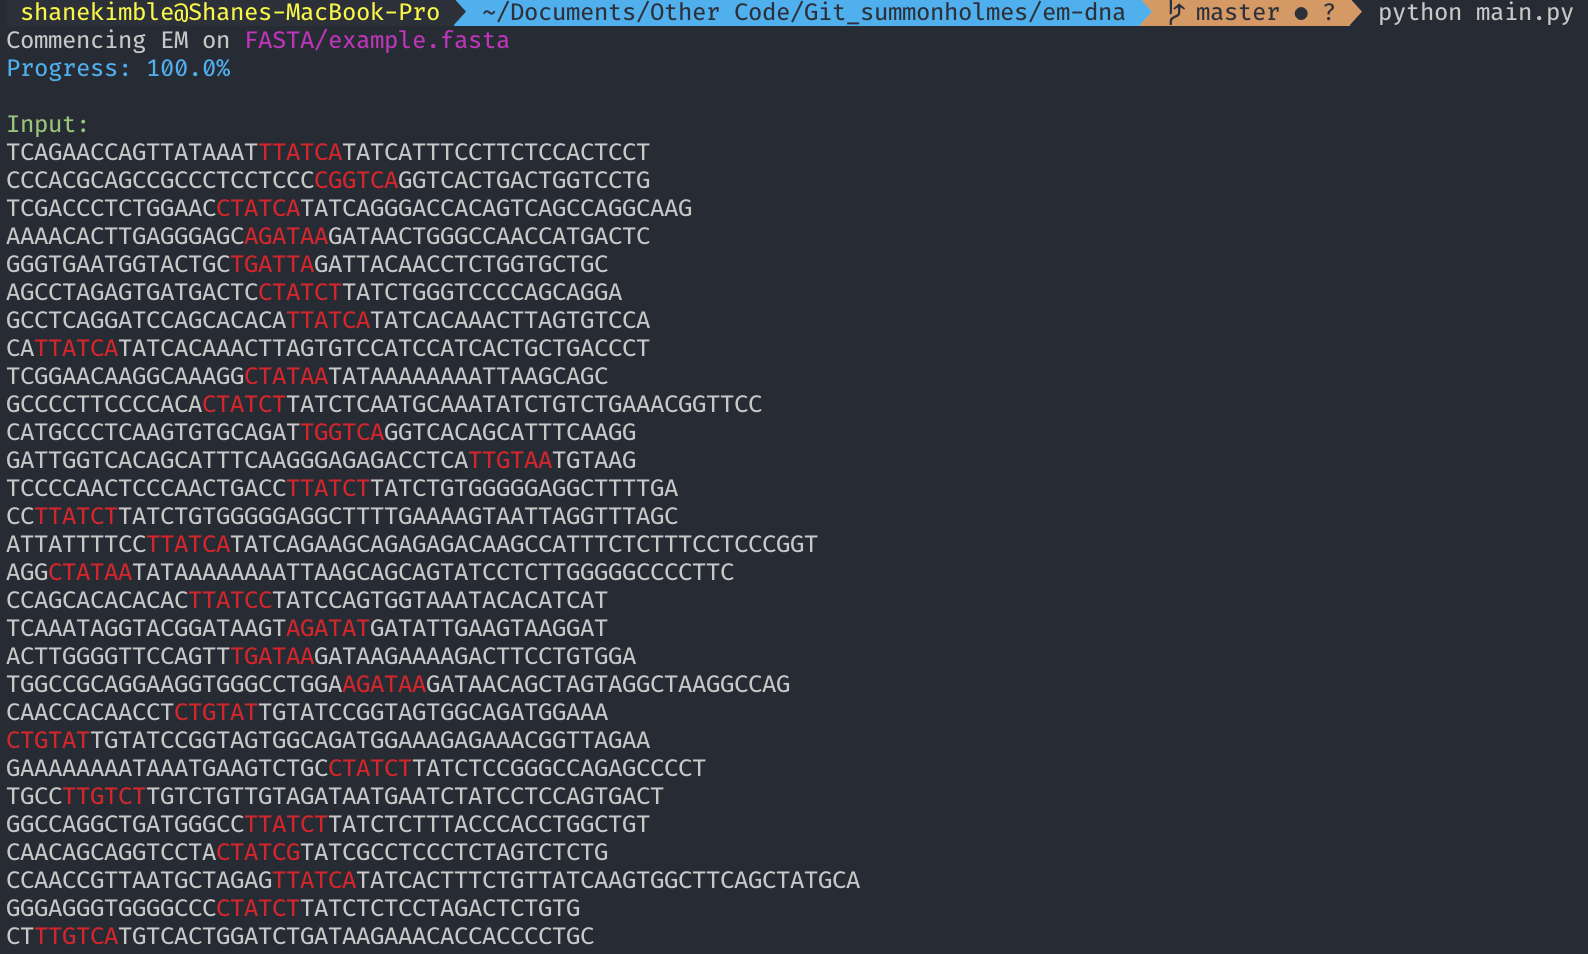
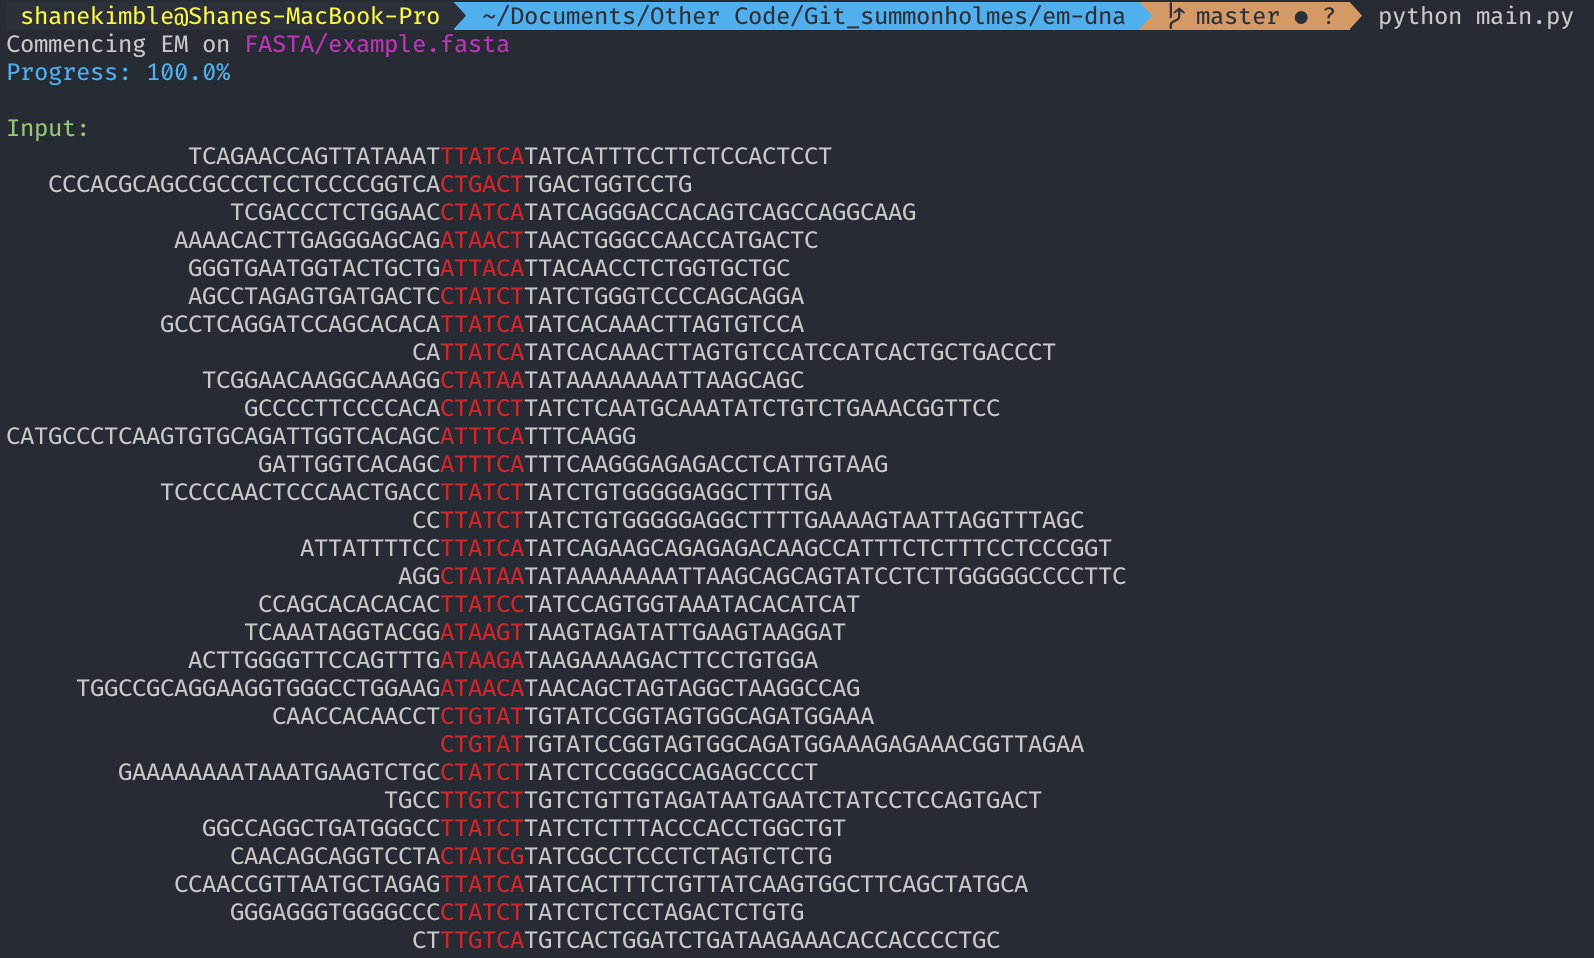
Improve visualization

Changed region(s): [[0.0, 0.1216, 0.7097, 1.0], [0.0, 0.0, 0.9874, 0.0912]]

diff --git a/class_EM_Core.py b/class_EM_Core.py
@@ -50,7 +50,7 @@ class EM_Core:
             colored(
                 "Progress: {:2.1%}".format((i + 1) / self.total_rand_aligns),
                 "blue"),
-            end="\r")
+            end='\r')
 
     def process_counter_obj(self):
         # Step 1 - inherit Core
@@ -77,10 +77,14 @@ class EM_Core:
     def color_the_sequences(self):
         # Map the colors
         return map(
-            lambda x, y: x[:y] +
-            colored(x[y:y + self.motif_width], "red") +
-            x[y + 1:],
-            self.fasta_file_seqs, self.final_dataframe["Final Positions"])
+            lambda seq, pos, align:
+                ' ' * align + seq[:pos] +
+                colored(seq[pos:pos + self.motif_width], "red") +
+                seq[pos + 1:],
+                self.fasta_file_seqs,
+                self.final_dataframe["Final Positions"],
+                self.final_dataframe["Final Positions"].max(
+                ) - self.final_dataframe["Final Positions"])
 
     def gen_dataframe(self):
         filter_keys = ("Final Scores", "Final Positions", "Final Motifs")
@@ -96,7 +100,7 @@ class EM_Core:
     def display_results(self):
         # Print final results
         print(colored("\n\nInput:", "green"))
-        print(*self.color_the_sequences(), sep="\n")
+        print(*self.color_the_sequences(), sep='\n')
         print(colored("\nResults:", "green"))
         print(self.final_dataframe)
-        print(*self.final_results.items(), sep="\n")
+        print(*self.final_results.items(), sep='\n')

diff --git a/class_EM_Input.py b/class_EM_Input.py
@@ -73,8 +73,8 @@ class EM_Input:
 
     def process_fasta(self):
         # Read, split, and skip every other line
-        self.fasta_file_seqs = self.fasta_file_seqs.split(">")
+        self.fasta_file_seqs = self.fasta_file_seqs.split('>')
         self.fasta_file_seqs = [
-            sub(r"[^ACTG]+", "", string) for string in self.fasta_file_seqs
+            sub(r"[^ACTG]+", '', string) for string in self.fasta_file_seqs
         ]
         del self.fasta_file_seqs[0]

diff --git a/README.md b/README.md
@@ -10,17 +10,17 @@ The Expectation (E) step composes the majority of source code.  Total positional
 An implementation in Julia is also available.  The Julia implementation was constructed to test the claims regarding Julia's superior performance.  Despite being as identical to the Python code blueprint as possible (minus the object-oriented structure), the Julia code runs far slower.  Perhaps I can improve it when I learn more about Julia's best practices, or Julia isn't what it claims to be.
 
 A brief description of the six classes:
-1. EM_Input: Loads all user data including the number of random alignments, the number of iterations, and the FASTA file.  This class has an interactive mode, but is commented out in favor of default parameters.  The defaults include a motif width of 6, 50 total random alignments, and 50 iterations.
+1. EM_Input: Loads all user data including the number of random alignments, the number of iterations, and the FASTA file.  This class has an interactive mode, but this is commented out in favor of default parameters.  The defaults include a motif width of 6, 50 total random alignments, and 50 iterations.
 
 2. EM_Prep: Consolidates all consistent and reusable information.  This includes all bases as a string, all base counts, all contiguous motifs, and cumulative sums.
 
-2. EM_Core: The first iteration or 'for' loop over the number of random alignments.  Previously, the entire program could be thought of as one gigantic, quintuple, nested 'for' loop.  However, this approach has been reduced to a double 'for' loop via numpy vectorization and indexing.  This is the 'nucleas' of the program, which encompasses the entire EM process and iterates for the specified number of total random alignments.
+2. EM_Core: The first iteration or 'for' loop over the number of random alignments.  Previously, the entire program could be thought of as one gigantic, quintuple, nested 'for' loop.  However, this approach has been reduced to a double 'for' loop via NumPy vectorization and indexing.  This is the 'nucleus' of the program, which encompasses the entire EM process and iterates for the specified number of total random alignments.
 
 3. EM_Count: Performs all counting operations regarding bases, motifs, and normalization.  The only area where looping occurs is over the motif width when storing positional counts.  The rest of this class aims to be as Pythonic and vectorized as possible.
 
-4. EM_Matrix: Consists of the E step, and generates the log odds matrix for the M step.  Numpy matrices are preferred here for their vector capabilities.  Child of EM_Count.
+4. EM_Matrix: Consists of the E step and generates the log odds matrix for the M step.  NumPy matrices are preferred here for their vector capabilities.  Child of EM_Count.
 
-5. EM_Run: Consists of remaining inner two 'for' loops from mentioned above in EM_Core, and the M step.  Scores are calculated using a numpy character array for each motif and the log odds matrix.  The entire process repeats to convergence, and the final results are printed in 'main.py'.  Note that the function 'update_log_odds' is the entire Expectation Step and recycles all functions from EM_Count & EM_Matrix.  Child of EM_Matrix.
+5. EM_Run: Consists of remaining inner two 'for' loops from mentioned above in EM_Core, and the M step.  Scores are calculated using a NumPy character array for each motif and the log odds matrix.  The entire process repeats to convergence, and the final results are printed in 'main.py'.  Note that the function 'update_log_odds' is the entire Expectation Step and recycles all functions from EM_Count & EM_Matrix.  Child of EM_Matrix.
 
 ## Getting Started
 This program requires few dependences and should be trivial to set up.  However, an in-depth understanding of the EM algorithm requires some knowledge of bioinformatics, data science, and machine learning.
@@ -45,40 +45,40 @@ C:\path\to\main.py C:\path\to\python3.exe main.py
 ```
 Results:
     Final Scores  Final Positions Final Motifs
-0     345.645897               18       TTATCA
-1      23.489909               22       CGGTCA
-2     204.849579               15       CTATCA
-3      11.132529               17       AGATAA
-4      13.379087               16       TGATTA
-5     177.230609               18       CTATCT
-6     345.645897               20       TTATCA
-7     345.645897                2       TTATCA
-8     105.752671               17       CTATAA
-9     177.230609               14       CTATCT
-10     39.634891               21       TGGTCA
-11     66.895433               33       TTGTAA
-12    299.043977               20       TTATCT
-13    299.043977                2       TTATCT
-14    345.645897               10       TTATCA
-15    105.752671                3       CTATAA
-16     39.384580               13       TTATCC
-17      9.631579               20       AGATAT
-18     54.578946               16       TGATAA
-19     11.132529               24       AGATAA
-20     34.300764               12       CTGTAT
-21     34.300764                0       CTGTAT
-22    177.230609               23       CTATCT
-23    112.109872                4       TTGTCT
-24    299.043977               17       TTATCT
-25     25.975433               15       CTATCG
-26    345.645897               19       TTATCA
-27    177.230609               15       CTATCT
-28    129.580664                2       TTGTCA
-('Max Final Score', 345.6458967848998)
-('Max Sum Scores', 4356.165750544812)
-('Max Final Sequence', 0)
-('Max Final Position', 18)
-('Max Final Motif', 'TTATCA')
+0     285.682305               18       TTATCA
+1      17.627782               28       CTGACT
+2     227.938010               15       CTATCA
+3      42.419494               19       ATAACT
+4       8.263538               18       ATTACA
+5     260.018174               18       CTATCT
+6     285.682305               20       TTATCA
+7     285.682305                2       TTATCA
+8      48.695847               17       CTATAA
+9     260.018174               14       CTATCT
+10     34.628158               31       ATTTCA
+11     34.628158               13       ATTTCA
+12    325.889445               20       TTATCT
+13    325.889445                2       TTATCT
+14    285.682305               10       TTATCA
+15     48.695847                3       CTATAA
+16     37.145453               13       TTATCC
+17      5.663967               14       ATAAGT
+18      4.965165               18       ATAAGA
+19     37.185920               26       ATAACA
+20     15.781062               12       CTGTAT
+21     15.781062                0       CTGTAT
+22    260.018174               23       CTATCT
+23     92.582229                4       TTGTCT
+24    325.889445               17       TTATCT
+25     31.658057               15       CTATCG
+26    285.682305               19       TTATCA
+27    260.018174               15       CTATCT
+28     81.159746                2       TTGTCA
+('Max Final Score', 325.8894445319883)
+('Max Sum Scores', 4230.972049319187)
+('Max Final Sequence', 12)
+('Max Final Position', 20)
+('Max Final Motif', 'TTATCT')
 ```
 
 ## License
